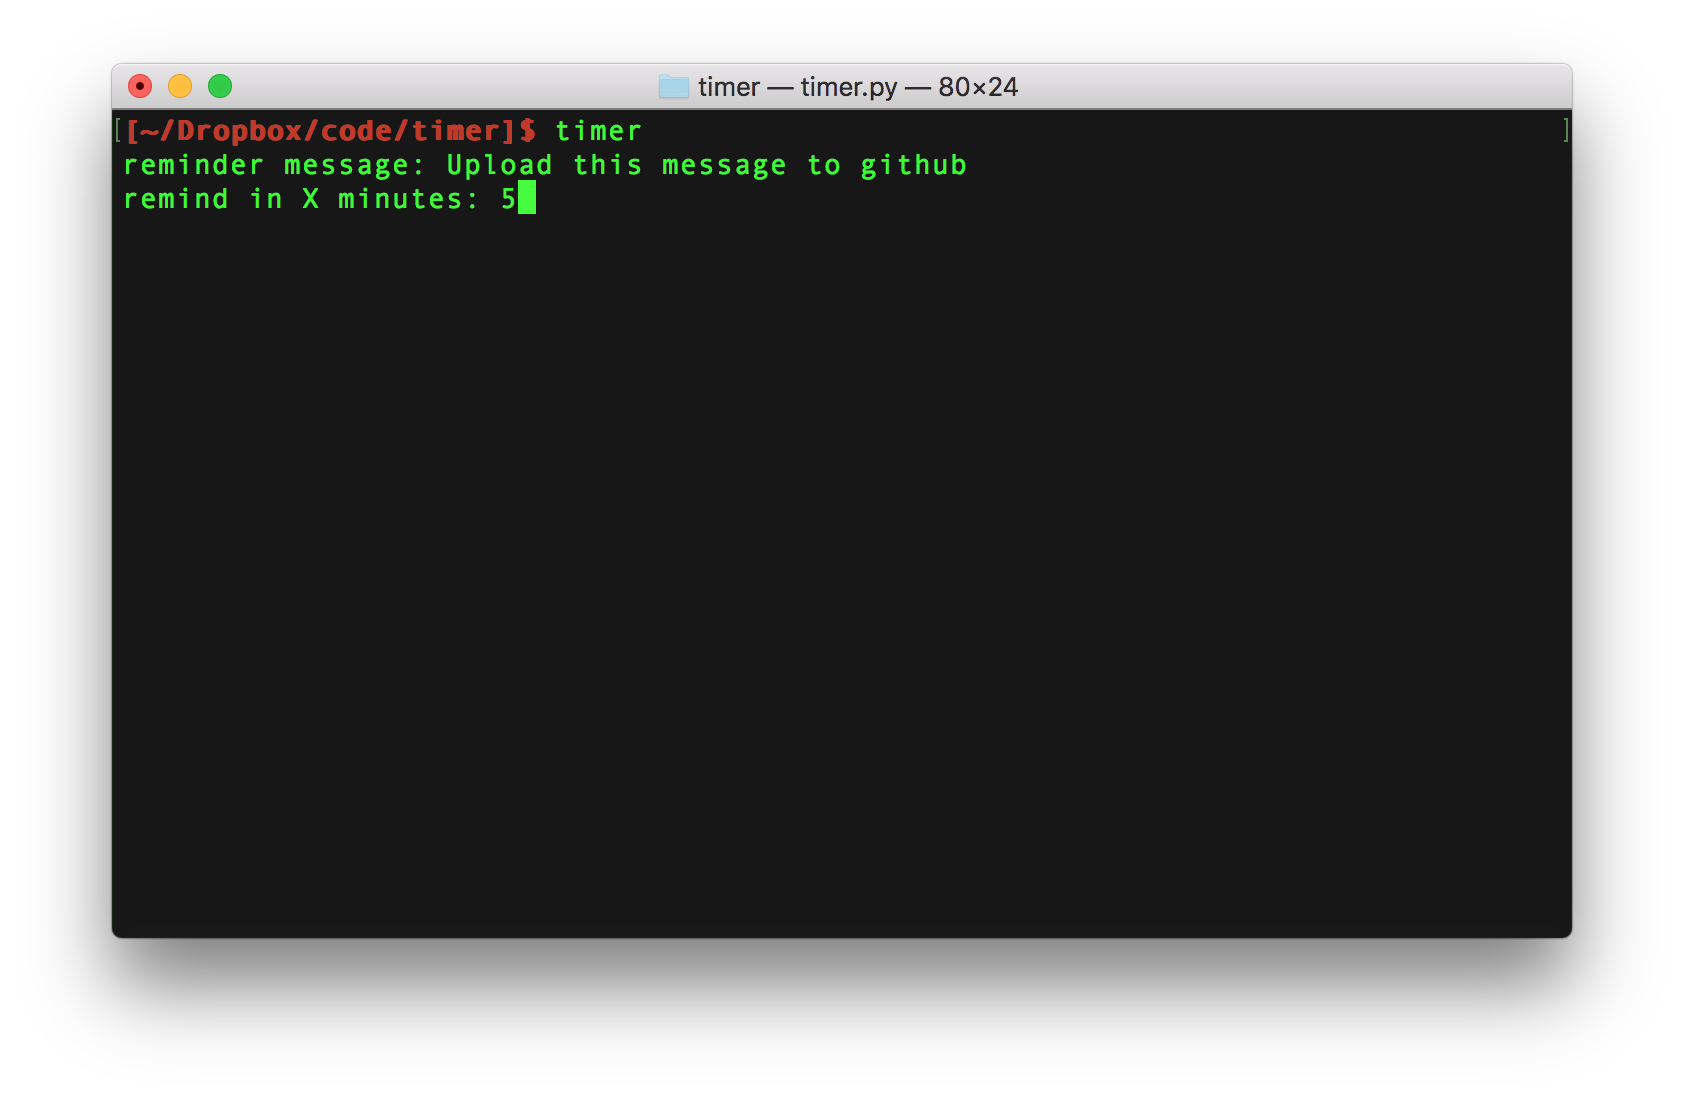
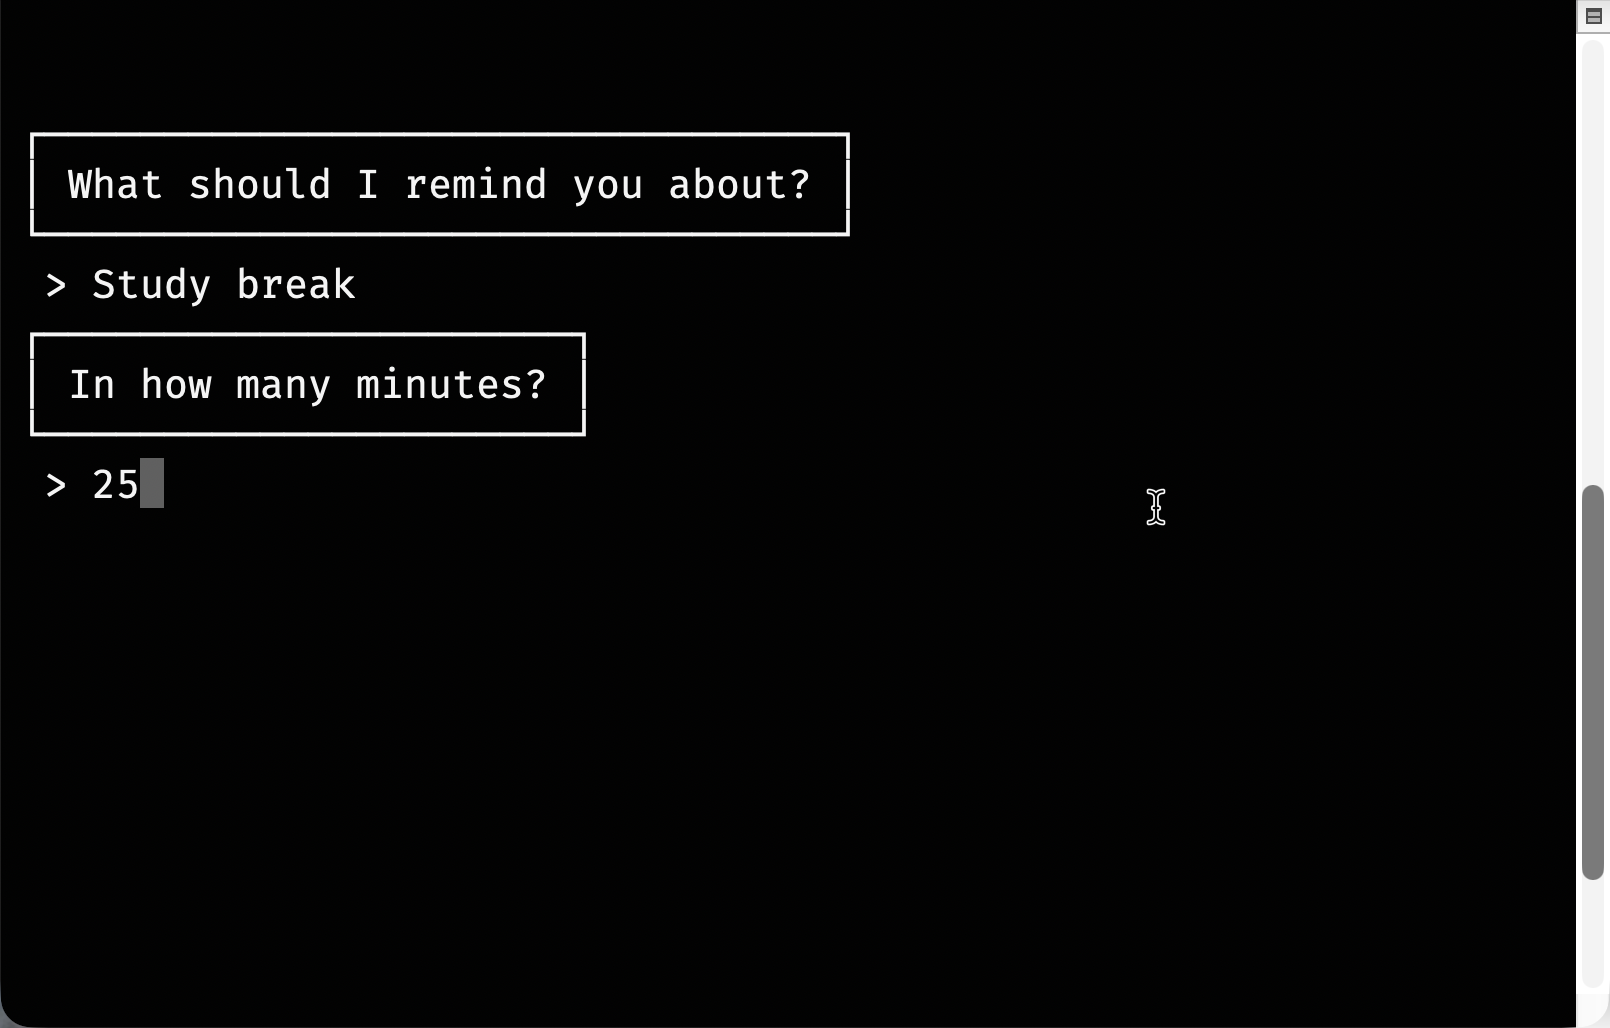
Merging various timer projects from different laptops
This commit brings my various versions together and adds a check for
linux machines.

diff --git a/timer.py b/timer.py
@@ -1,61 +1,187 @@
 #!/usr/bin/env python3
-
 # timer.py
 # /sable cantus/
-# set a countdown timer and play the buzzer
+# set a countdown timer in your terminal and play an alarm when done
 
 import datetime
-import time
-import subprocess
 import os
+import platform
+import signal
+import shutil
+import subprocess
 import sys
+import threading
+import time
 
-# you may need the script to change directory
-# to be in the same location as your wav file
-# os.chdir('/your/path/here/')
+alarm = os.path.join(os.path.dirname(os.path.abspath(__file__)), 'watch_alarm.wav')
 
-# must run in the same directory as the wav file
-alarm = ('watch_alarm.wav')
+def get_sound_command():
+    sound_player = {
+        'Darwin': 'afplay',
+        'Linux': 'aplay',
+    }.get(platform.system())
 
-# was a time specified at the prompt?
-# if it was, use that in minutes
-if len(sys.argv) > 1:
-    reminder = int(sys.argv[1])
-    message = "your reminder"
+    if not sound_player:
+        return None, f"Sound playback is not configured for {platform.system()}."
+    if not shutil.which(sound_player):
+        return None, f"Sound player '{sound_player}' was not found."
+    if not os.path.isfile(alarm):
+        return None, f"Alarm sound file not found: {alarm}"
+    return [sound_player, alarm], None
+
+
+def print_boxed_message(message):
+    """Prints a message inside a decorative ASCII box."""
+    width = len(message) + 4
+    print("┌" + "─" * (width - 2) + "┐")
+    print(f"│ {message} │")
+    print("└" + "─" * (width - 2) + "┘")
+
+def get_boxed_input(prompt):
+    """Displays a boxed prompt and returns user input."""
+    print_boxed_message(prompt)
+    return input(" > ")
+
+
+def wait_for_keypress(prompt):
+    """Wait for acknowledgment and restore terminal settings after raw input."""
+    if not sys.stdin.isatty():
+        input(prompt)
+        return
+
+    print(prompt, end='', flush=True)
+    if os.name == 'nt':
+        import msvcrt
+
+        msvcrt.getch()
+    else:
+        import termios
+        import tty
+
+        file_descriptor = sys.stdin.fileno()
+        previous_settings = termios.tcgetattr(file_descriptor)
+        try:
+            tty.setraw(file_descriptor)
+            sys.stdin.read(1)
+        finally:
+            termios.tcsetattr(file_descriptor, termios.TCSADRAIN, previous_settings)
+    print()
+
+
+def is_muted():
+    """Checks if the system audio is muted on macOS."""
+    try:
+        command_output = subprocess.check_output(['osascript', '-e', 'output muted of (get volume settings)'], text=True, stderr=subprocess.DEVNULL).strip()
+        return command_output == 'true'
+    except (subprocess.CalledProcessError, FileNotFoundError):
+        return False
+
+
+def exit_on_termination(signum, _frame):
+    raise SystemExit(128 + signum)
+
+
+# Clear the screen first
+subprocess.run(['clear'], check=True)
+
+# Now, check for mute status and display the warning if needed.
+mute_warning_active = is_muted()
+if mute_warning_active:
+    print("WARNING: Your system audio is muted. You may not hear the alarm.")
+
+sound_command, sound_issue = get_sound_command()
+if sound_issue:
+    print(sound_issue)
+    while True:
+        choice = input("Choose [s]kip sound and continue, or [q]uit: ").strip().lower()
+        if choice == 's':
+            sound_command = None
+            break
+        if choice == 'q':
+            sys.exit(0)
+        print("Please enter 's' to continue without sound or 'q' to quit.")
+
+if len(sys.argv) > 1 and sys.argv[1] == 'test':
+    message = "testing"
+    later = datetime.datetime.now() + datetime.timedelta(seconds=5)
+    print_boxed_message("Running a 5-second test")
 else:
-    message = input("reminder message: ")
-    reminder = input("remind in X minutes: ")
+    if len(sys.argv) > 1:
+        reminder = int(sys.argv[1])
+        # message = "your reminder"
+        message = sys.argv[2] if len(sys.argv) > 2 else "your reminder"
+    else:
+        message = get_boxed_input("What should I remind you about?")
+        reminder = get_boxed_input("In how many minutes?")
 
-os.system('clear')
+    pluralSingular = "minute" if int(reminder) == 1 else "minutes"
+    print_boxed_message(f"Okay, I'll remind you in {reminder} {pluralSingular}")
+    later = datetime.datetime.now() + datetime.timedelta(minutes=int(reminder))
 
-# check for 1 minute or more
-if int(reminder) == 1:
-    pluralSingular = "minute"
-else:
-    pluralSingular = "minutes"
-
-print("Okay, I'll remind you in", reminder, pluralSingular)
-
-later = datetime.datetime.now() + datetime.timedelta(minutes = int(reminder))
-
+spinner = ['|', '/', '-', '\\']
 while datetime.datetime.now() < later:
-    print(' .', end='\r')
-    time.sleep(0.5)
-    print('  ', end='\r')
-    time.sleep(0.5)
+    for s in spinner:
+        remaining = later - datetime.datetime.now()
+        if remaining.total_seconds() < 0:
+            break
+        secs = int(remaining.total_seconds())
+        mins, secs = divmod(secs, 60)
+        time_str = f" {mins:02d}:{secs:02d}"
+        print(f" {s} {time_str}", end='\r')
+        time.sleep(0.1)
 
+stop_flashing = threading.Event()
+
+def flash_screen(stop_event):
+    try:
+        while not stop_event.is_set():
+            sys.stdout.write("\x1b[?5h") # Invert colors
+            sys.stdout.flush()
+            time.sleep(0.5)
+            if stop_event.is_set(): break
+            sys.stdout.write("\x1b[?5l") # Revert colors
+            sys.stdout.flush()
+            time.sleep(0.5)
+    finally:
+        sys.stdout.write("\x1b[?5l") # Ensure colors are reverted
+        sys.stdout.flush()
+
+# Clear the line with the spinner before showing the final message
+print(" " * 20, end='\r')
 print('\a')
 
-# sound the alarm
-# for macOS
-alarmPlay = subprocess.Popen(['afplay', 'watch_alarm.wav'])
+alarmPlay = None
+flash_thread = None
+termination_signals = [signal.SIGTERM]
+if hasattr(signal, 'SIGHUP'):
+    termination_signals.append(signal.SIGHUP)
+previous_signal_handlers = {}
 
-# for ubuntu
-# alarmPlay = subprocess.Popen(['aplay', 'watch_alarm.wav'])
+try:
+    for signum in termination_signals:
+        previous_signal_handlers[signum] = signal.signal(signum, exit_on_termination)
 
-# notify the user and give them a chance to kill the alarm
-print("You're timer is complete: ", message)
-input('any key to acknowledge')
+    if sound_command:
+        try:
+            alarmPlay = subprocess.Popen(sound_command)
+        except OSError as error:
+            print(f"Could not start alarm sound: {error}", file=sys.stderr)
 
-# after clicking on input
-alarmPlay.kill()
+    flash_thread = threading.Thread(target=flash_screen, args=(stop_flashing,))
+    flash_thread.start()
+
+    print_boxed_message(f"Timer complete: {message}")
+    wait_for_keypress('Press any key to acknowledge:')
+finally:
+    stop_flashing.set()
+    try:
+        if alarmPlay:
+            alarmPlay.kill()
+            alarmPlay.wait()
+    finally:
+        try:
+            if flash_thread and flash_thread.ident is not None:
+                flash_thread.join()
+        finally:
+            for signum, previous_handler in previous_signal_handlers.items():
+                signal.signal(signum, previous_handler)

diff --git a/README.md b/README.md
@@ -1,17 +1,25 @@
-simple python command line timer
+A simple python command line timer.
 
-starting the timer with a value will set it for that many minutes
+Starting the timer with a value will set it for that many minutes
 
     timer 5
 
-starting the timer with no cli value will prompt for it:
+Starting the timer with a time value and message will display that message.
+
+    timer 20 "Check the roast"
+
+Starting the timer with no cli value will prompt for it:
 
 ![](1.png)
 ![](2.png)
 
 Add it to your .profile
 
-    alias timer='timer.py'
+    alias timer='/path/to/project/timer.py'
 
-change out the wav file for anything else
+Change out the wav file for any other alarm sound you prefer.
 
+On macOS, the timer uses `afplay`. On Linux, it uses `aplay`; install it
+with `sudo apt install alsa-utils` on Ubuntu or `sudo pacman -S alsa-utils`
+on Omarchy/Arch. If the required player or alarm file is unavailable, you can
+continue without sound or quit.
